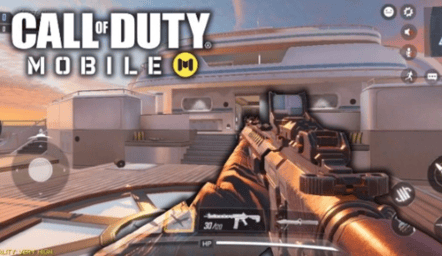
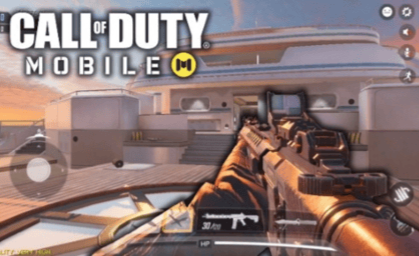
making image sizes uniform

diff --git a/pc_games.html b/pc_games.html
@@ -17,42 +17,42 @@
         </nav>
     </header>
     <main>
-        <h2>Top PC Games</h2>
+        <h1>Top PC Games</h1>
         <p>Enjoy the best PC games to play at home.</p>
         <section class="games">
             <div>
                 <img src="images/minecraft-java1.png" alt="Minecraft Java">
-                <h4>Minecraft (Java Edition)</h4>
+                <h2>Minecraft (Java Edition)</h2>
                 <p>A creative sandbox game where you can build, explore, and survive in infinite worlds. Perfect for players who enjoy freedom, creativity, and endless possibilities.</p>
                 <p>Genre tags: Sandbox, Survival, Creative, Adventure</p>
             </div>
             <div>
-                <img src="images/valorant1.png" alt="Valorant">
-                <h4>Valorant</h4>
+                <img src="images/valorant1.PNG" alt="Valorant">
+                <h2>Valorant</h2>
                 <p>A tactical 5v5 shooter that mixes precise gunplay with unique character abilities. Great for players who enjoy teamwork, strategy, and competitive matches.</p>
                 <p>Genre tags: Tactical Shooter, FPS, Competitive, Multiplayer</p>
             </div>
             <div>
                 <img src="images/league-of-legends1.png" alt="League of Legends">
-                <h4>League of Legends</h4>
+                <h2>League of Legends</h2>
                 <p>A fast-paced MOBA where teams battle to destroy the enemy base. Ideal for players who like strategy, teamwork, and mastering different champions.</p>
                 <p>Genre tags: MOBA, Strategy, Competitive, Multiplayer</p>
             </div>
             <div>
                 <img src="images/hollow-knight1.png" alt="Hollow Knight">
-                <h4>Hollow Knight</h4>
+                <h2>Hollow Knight</h2>
                 <p>A beautifully crafted metroidvania with challenging combat and atmospheric exploration. Great for players who love adventure, mystery, and skill-based gameplay.</p>
                 <p>Genre tags: Metroidvania, Action-Adventure, Platformer, Indie</p>
             </div>
             <div>
                 <img src="images/fortnite-pc1.png" alt="Fortnite">
-                <h4>Fortnite (PC Version)</h4>
+                <h2>Fortnite (PC Version)</h2>
                 <p>A colorful battle royale with building mechanics and constant updates. Ideal for players who enjoy fast action, creativity, and playing with friends.</p>
                 <p>Genre tags: Battle Royale, Shooter, Multiplayer, Building</p>
             </div>
             <div>
                 <img src="images/elden-ring1.png" alt="Elden Ring">
-                <h4>Elden Ring</h4>
+                <h2>Elden Ring</h2>
                 <p>An expansive open-world action RPG that combines deep lore, challenging combat, and breathtaking landscapes. Perfect for players who enjoy exploration, mastery, and epic adventures filled with mystery and discovery.</p>
                 <p>Genre tags: Action RPG, Open World, Souls-like, Fantasy</p>
             </div>

diff --git a/mobile_games.html b/mobile_games.html
@@ -17,12 +17,12 @@
         </nav>
     </header>
     <main>
-        <h2>Top Mobile Games</h2>
+        <h1>Top Mobile Games</h1>
         <p>Enjoy the best mobile games to play on the go.</p>
         <section class="games">
             <div>
-                <img src="images/clash-royal1.png" alt="Clash Royale">
-                <h4>Clash Royale</h4>
+                <img src="images/clash-royale1.PNG" alt="Clash Royale">
+                <h2>Clash Royale</h2>
                 <p>
                     A fast-paced strategy game where you collect cards, 
                     build decks, and battle other players in real time. 
@@ -33,7 +33,7 @@
             </div>
             <div>
                 <img src="images/brawl-stars1.png" alt="Brawl Stars">
-                <h4>Brawl Stars</h4>
+                <h2>Brawl Stars</h2>
                 <p>
                     A colorful, action-packed multiplayer game with 
                     unique characters and multiple game modes. Great 
@@ -44,7 +44,7 @@
             </div>
             <div>
                 <img src="images/call-of-duty-mobile1.png" alt="Call of Duty">
-                <h4>Call of Duty Mobile</h4>
+                <h2>Call of Duty Mobile</h2>
                 <p>
                     A high-quality FPS experience on mobile with 
                     classic multiplayer modes and battle royale. 
@@ -55,7 +55,7 @@
             </div>
             <div>
                 <img src="images/genshin-impact1.png" alt="Genshin Impact">
-                <h4>Genshin Impact</h4>
+                <h2>Genshin Impact</h2>
                 <p>
                     An open-world action RPG with beautiful visuals, 
                     elemental combat, and an engaging story. Perfect 
@@ -66,7 +66,7 @@
             </div>
             <div>
                 <img src="images/among-us1.png" alt="Among Us">
-                <h4>Among Us</h4>
+                <h2>Among Us</h2>
                 <p>
                     A social deduction game where players work together 
                     — unless one of them is the impostor. Great for 
@@ -77,7 +77,7 @@
             </div>
             <div>
                 <img src="images/pubg-mobile1.png" alt="PUBG">
-                <h4>PUBG Mobile</h4>
+                <h2>PUBG Mobile</h2>
                 <p>
                     A thrilling battle-royale game where 100 players 
                     fight to be the last one standing. It combines 

diff --git a/index.html b/index.html
@@ -17,33 +17,38 @@
         </nav>
     </header>
     <main>
-        <h2 id="welcome-line">Welcome to my Videogame Recommendation Hub</h2>
-        <hr>
-        <p>Here you will find curated lists, positive reviews, and 
+        <h1 id="welcome-line">Welcome to my Videogame Recommendation Hub</h1>
+        <hr id="first-divider">
+        <p class="home-page-paragraphs">Here you will find curated lists, positive reviews, and 
             clear explanations of what makes each game special.
         </p>
-        <h3>What Makes a Game Great</h3>
+        <br>
+        <hr id="second-divider">
+        <h2>What Makes a Game Great</h2>
         <section id="good-game-attr">
             <div>
-                <img src="images/Story.png" alt="Text bubbles">
-                <p>Engaging Story</p>
+                <img src="images/Story1.PNG" alt="Text bubbles">
+                <p class="home-page-paragraphs">Engaging Story</p>
             </div>
             <div>
                 <img src="images/Gameplay.png" alt="Game controller">
-                <p>Creative Gameplay</p>
+                <p class="home-page-paragraphs">Creative Gameplay</p>
             </div>
             <div>
                 <img src="images/Art.png" alt="Palette and notes">
-                <p>Beautiful Art & Music</p>
+                <p class="home-page-paragraphs">Beautiful Art & Music</p>
             </div>
             <div>
-                <img src="images/Progression.png" alt="Stats">
-                <p>Meaningful Progression</p>
+                <img src="images/Progression1.PNG" alt="Stats">
+                <p class="home-page-paragraphs">Meaningful Progression</p>
             </div>
             <div>
-                <img src="images/Factor.png" alt="Star">
-                <p>Fun Factor</p>
+                <img src="images/Factor1.PNG" alt="Star">
+                <p class="home-page-paragraphs">Fun Factor</p>
             </div>
         </section>
     </main>
 </body>
+
+
+<!-- put colored boxes around nav links. also color the header. and colored boxes around things in grid in home page. also look up locked position footer. -->

diff --git a/index.css b/index.css
@@ -1,6 +1,6 @@
 @import url('https://fonts.googleapis.com/css2?family=Bitcount+Grid+Double:wght@100..900&family=Share+Tech&display=swap');
 
-h2, h3, h4 {
+h1, h2, h3, h4 {
     font-family: 'Bitcount Grid Double';
     text-align: center;
 }
@@ -8,6 +8,11 @@ h2, h3, h4 {
 p, a {
     font-family: 'Share Tech';
     text-align: center;
+}
+
+.home-page-paragraphs {
+    font-size: 20px;
+    padding-bottom: 40px;
 }
 
 header {
@@ -38,8 +43,15 @@ a {
     margin-bottom: 16px;
 }
 
-hr {
-    margin: 4px 150px;
+#first-divider {
+    margin: 0px 160px;
+}
+
+#second-divider {
+    margin-top: 20px;
+    margin-bottom: 8px;
+    margin-right: 20px;
+    margin-left: 20px;
 }
 
 #good-game-attr {
